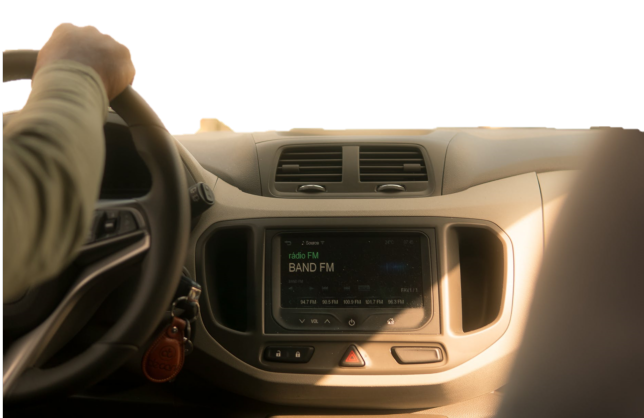
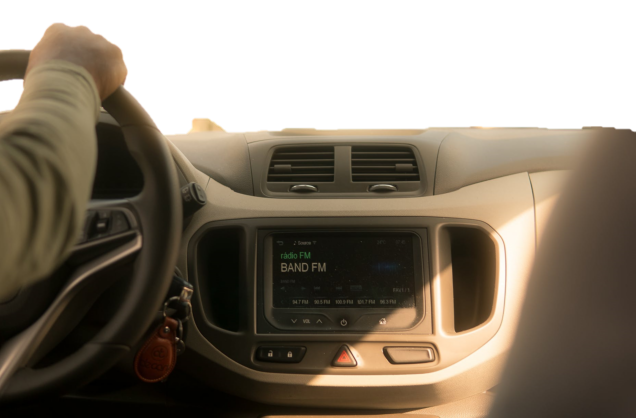
fixing driver

diff --git a/src/components/RadioResults/index.jsx b/src/components/RadioResults/index.jsx
@@ -7,17 +7,17 @@ const RadioResults = () => {
         <>
         <div className="">
          <img className="driver-img" src={image} alt="" 
-         style={{ position: "absolute",
+         style={{  position: "absolute",
          width: "100%",
          left: "50%",
-         top:"100%",
-         height: "100vh",
-         objectFit: "cover",
-         transform: "translate(-50%, -50%)",
-         zIndex: "-1",
-         display:"flex",
+         top:"70vh",
+         height:"70vh", 
+         transform: "translate(-50%, -50%)", 
              }} />
-             <div><h2>hello</h2></div>
+             <div className="accordion">
+                 <h4>title</h4><hr style={{color:"black"}}/><h4>country</h4>
+                 
+                 </div>
              
         </div>
             

diff --git a/src/components/RadioFmForm/RadioFmForm.js b/src/components/RadioFmForm/RadioFmForm.js
@@ -2,6 +2,7 @@ import { useForm } from "react-hook-form";
 import React, { useState, useEffect } from "react";
 import axios from "axios";
 import { RadioDisplay } from "../RadioDisplay/RadioDisplay";
+import RadioResults from "../RadioResults";
 
 export default function RadioFmForm() {
   const [countryRadioStations, setCountryRadioStations] = useState("");
@@ -67,7 +68,7 @@ export default function RadioFmForm() {
           </form>
         </div>
       ) : (
-        <div>hello</div>
+        <RadioResults />
       )}
     </>
   );

diff --git a/src/components/RadioResults/style.css b/src/components/RadioResults/style.css
@@ -1,0 +1,10 @@
+.accordion {
+	position: absolute;
+	width: 26%;
+	left: 40%;
+	top: 73%;
+	background-color: #2d2618;
+	box-sizing: border-box;
+	text-align: center;
+	border-radius: 15px;
+}
